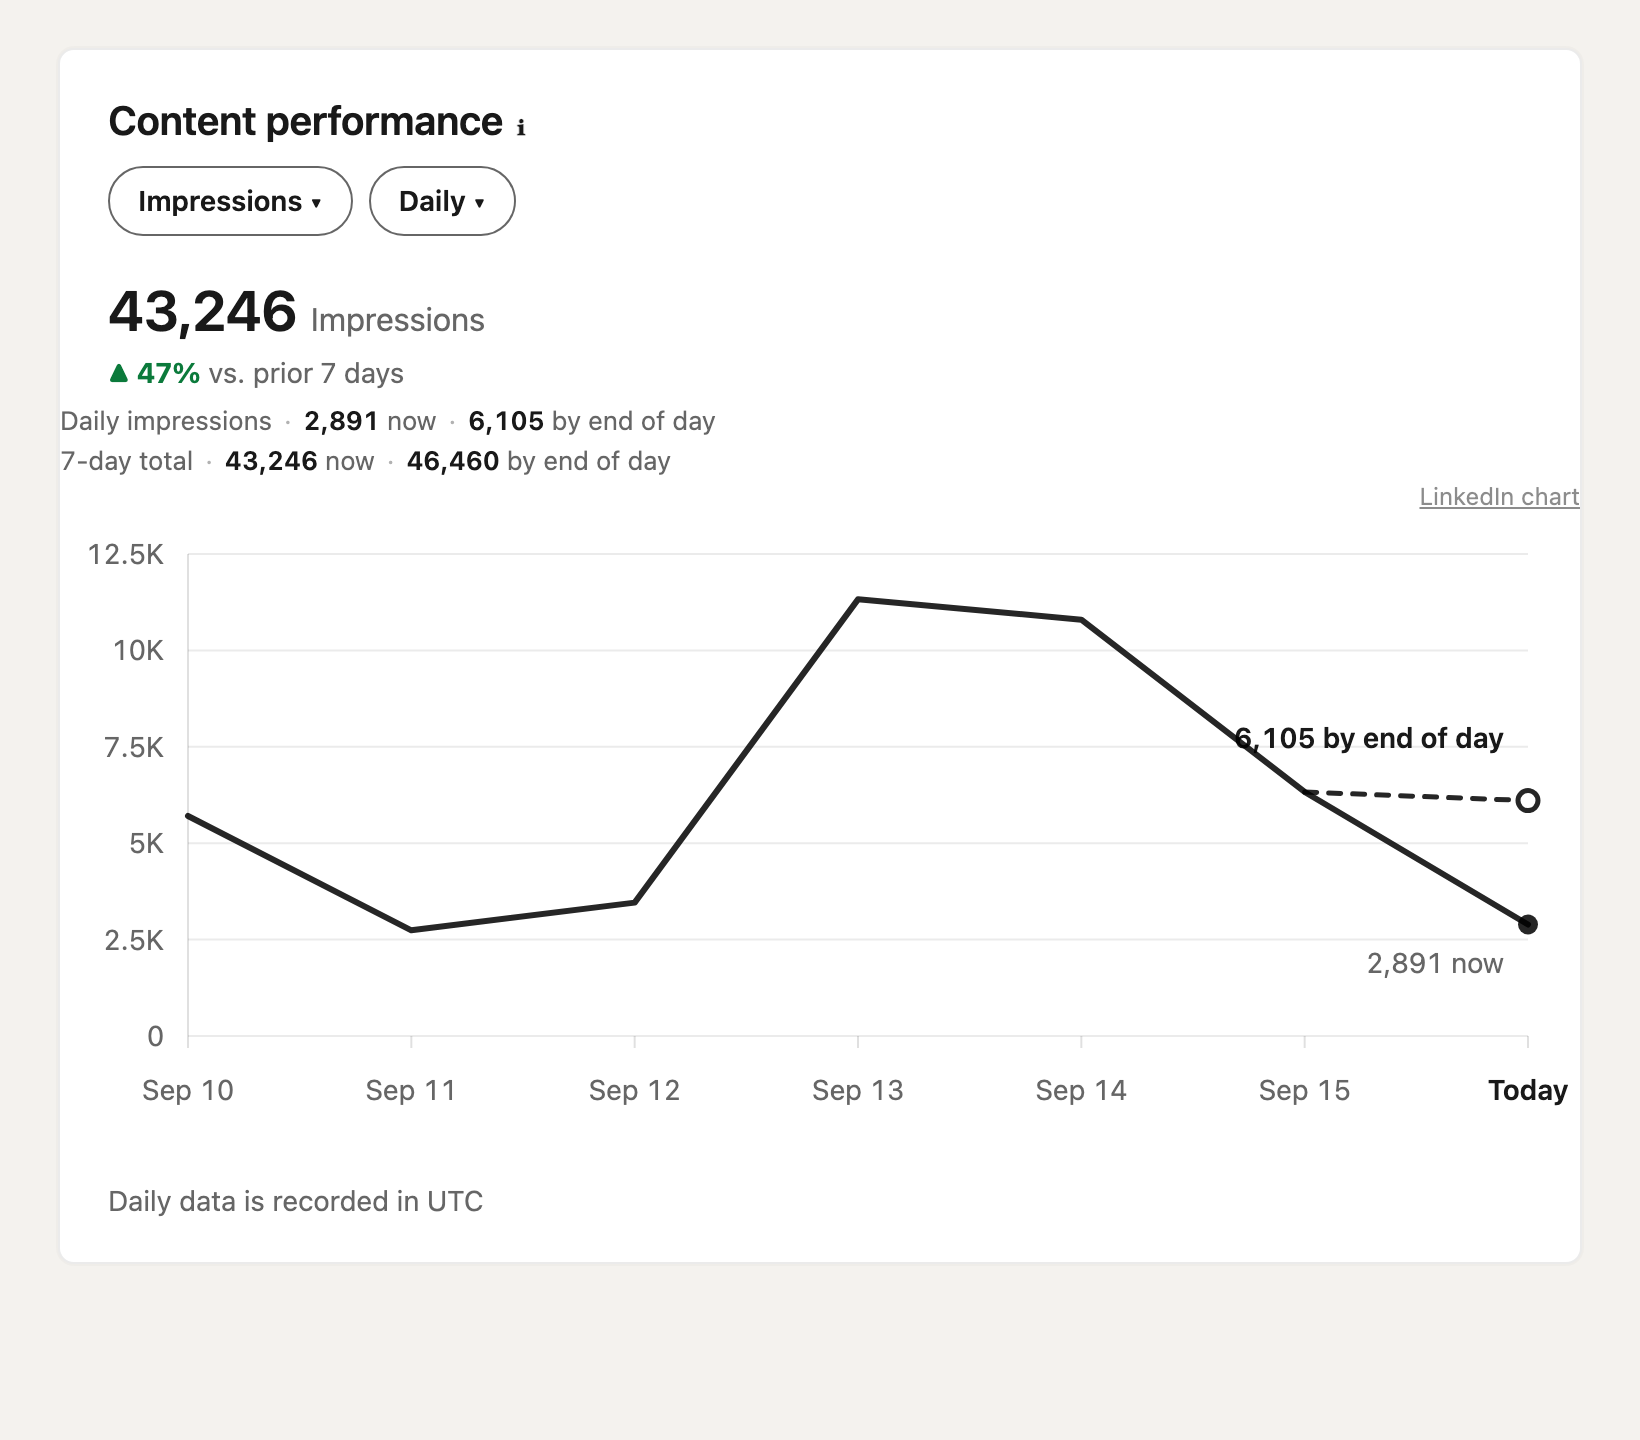
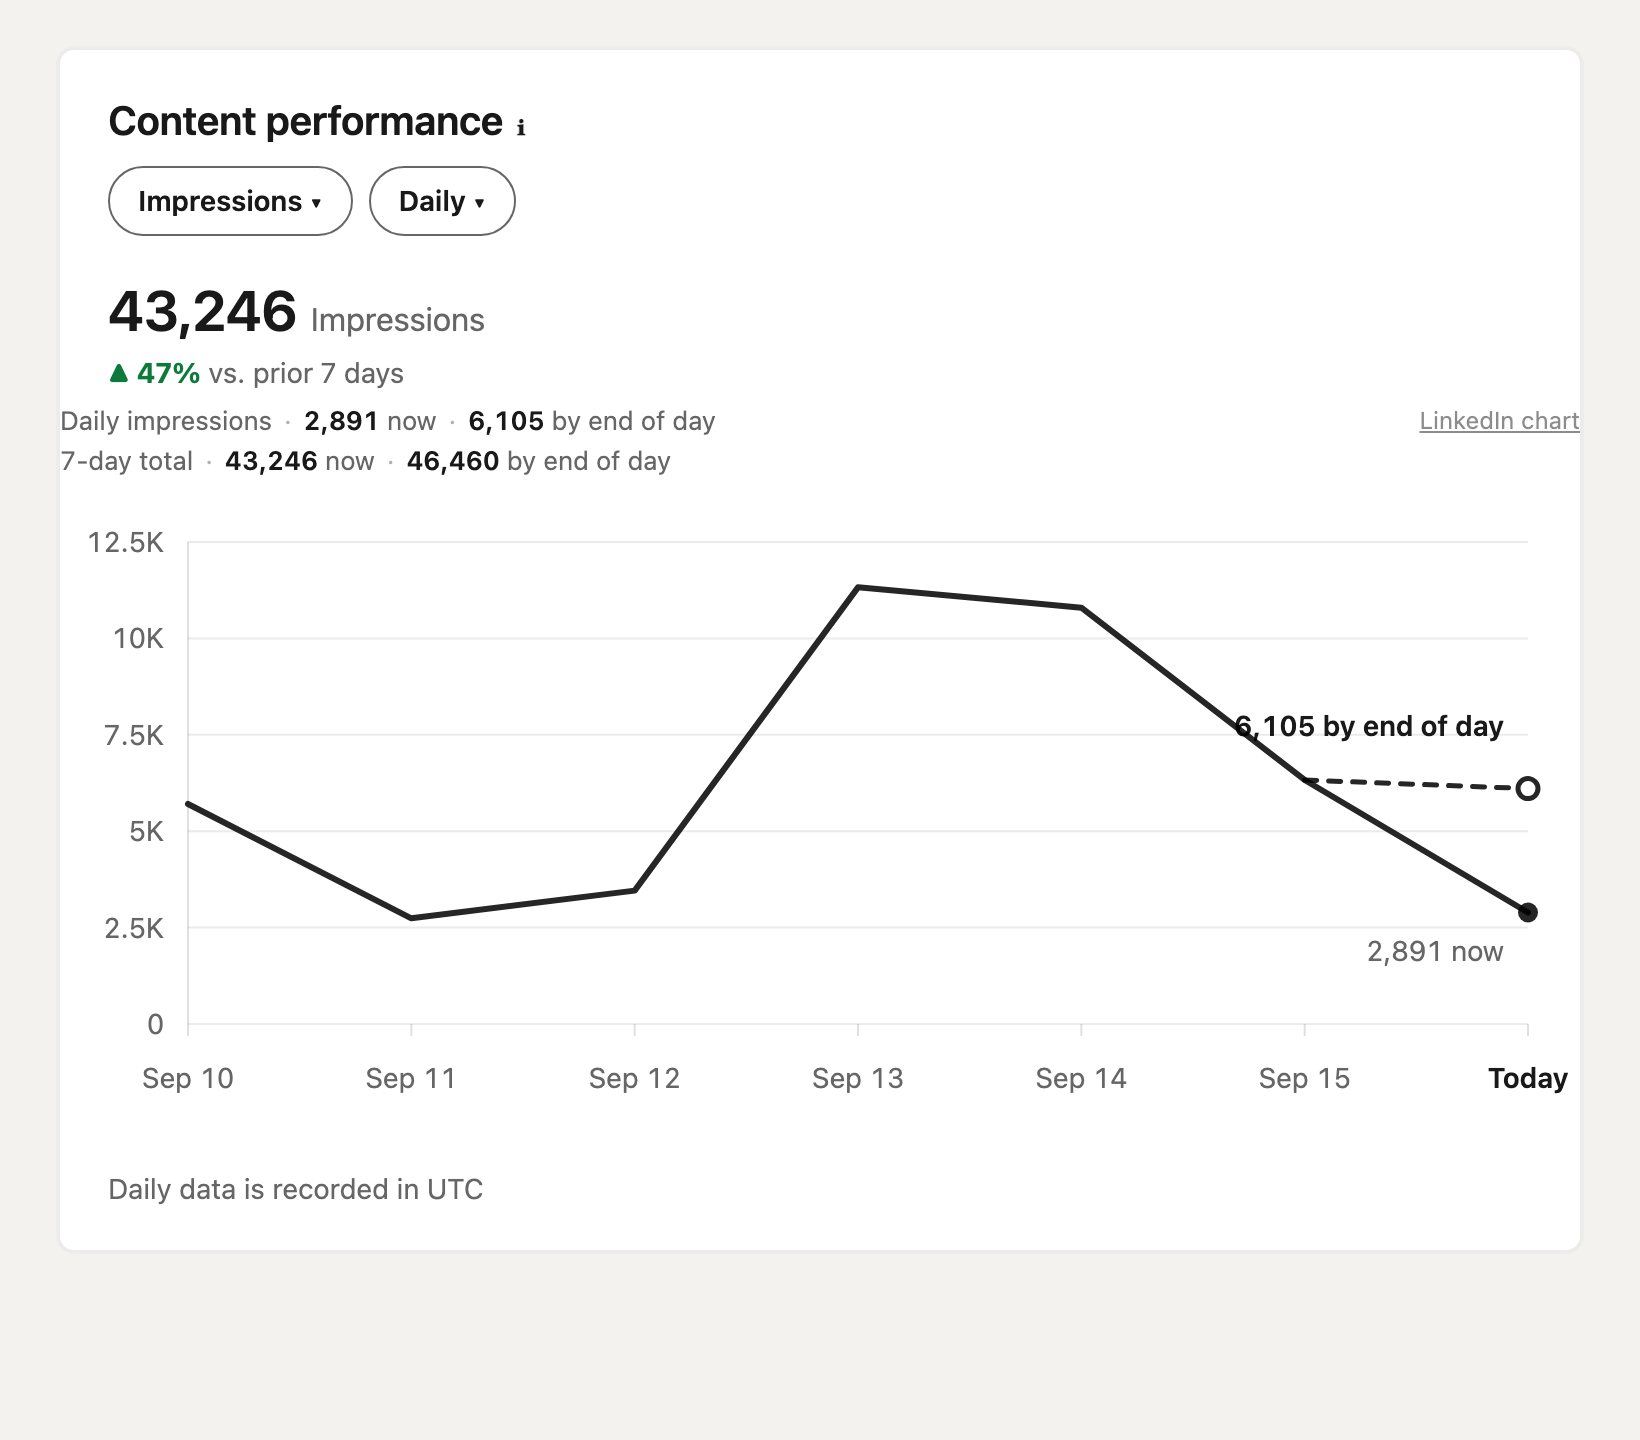
Keep the chart toggle on the first line

diff --git a/src/content/overlay.ts b/src/content/overlay.ts
@@ -7,12 +7,12 @@ const CSS = `
 :host { all: initial; }
 .lif { display:block; font: 12px/16px -apple-system, system-ui, "Segoe UI", Roboto, sans-serif; color: rgba(0,0,0,.6);
   padding: 6px 16px 10px; font-variant-numeric: tabular-nums; letter-spacing: 0; }
-.lif.card { padding: 0 0 12px; font-size: 13px; line-height: 18px; }
+.lif.card { position: relative; padding: 0 0 12px; font-size: 13px; line-height: 18px; }
 .lif b { color: rgba(0,0,0,.9); font-weight: 600; }
 .lif .sep { margin: 0 6px; color: rgba(0,0,0,.3); }
 .lif .tag { font-size: 11px; text-transform: uppercase; letter-spacing: .04em; color: rgba(0,0,0,.45); margin-left: 8px; }
 .lif .sub { display:block; margin-top: 2px; color: rgba(0,0,0,.6); }
-.lif .toggle { float:right; color: rgba(0,0,0,.45); cursor:pointer; text-decoration: underline; font-size: 12px; }
+.lif .toggle { position:absolute; right:0; top:0; color: rgba(0,0,0,.45); cursor:pointer; text-decoration: underline; font-size: 12px; }
 .lif svg { display:block; margin-top: 12px; overflow: visible; }
 .lif svg text { font: 14px/1 -apple-system, system-ui, "Segoe UI", Roboto, sans-serif; fill: rgba(0,0,0,.6); font-variant-numeric: tabular-nums; }
 .lif svg text.strong { fill: rgba(0,0,0,.9); font-weight: 600; }
